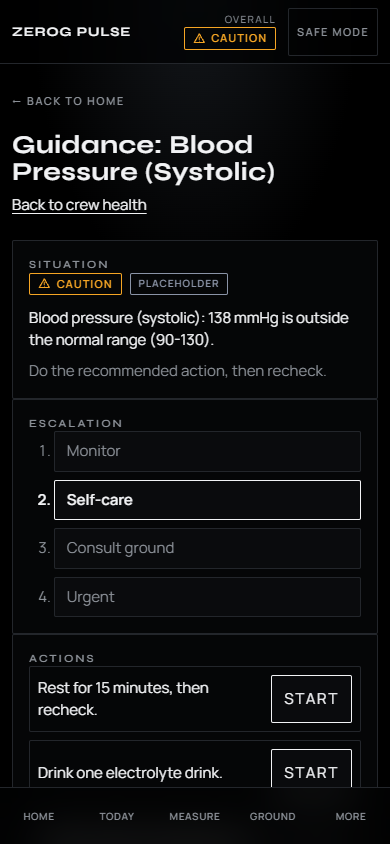
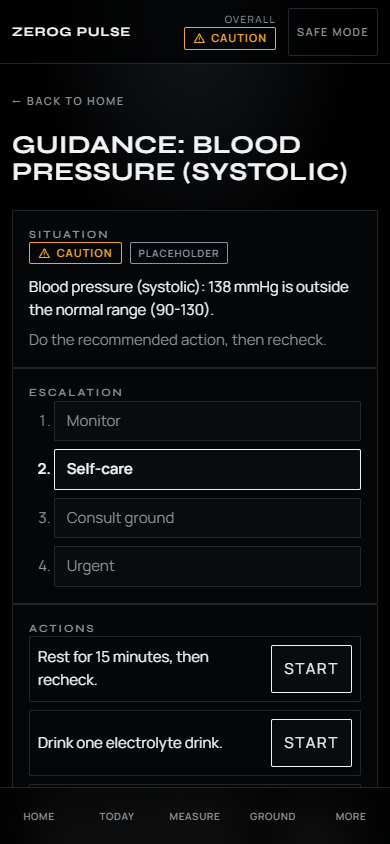
fix(web): polish sub-pages and log blood pressure as one reading
One back link per page, uppercase sub-page titles (an unscoped region rule was capitalising them all), plain indicator titles on region detail, named ends on each check-in scale (stress 5 = calm, per the contract), and Measure logs systolic and diastolic together so the diastolic no longer goes stale. Measure stacks to one column on phones.

Changed region(s): [[0.0308, 0.154, 0.9538, 0.9242], [0.0923, 0.6469, 0.1231, 0.6777]]

diff --git a/apps/web/src/faces/crew/measure/Measure.tsx b/apps/web/src/faces/crew/measure/Measure.tsx
@@ -51,12 +51,20 @@ function Picker({ model }: { model: Model }) {
   );
 }
 
+// Systolic and diastolic come off the cuff together; the contract gives them one prompt.
+const PAIRED: Record<string, string> = { bp_systolic: "bp_diastolic", bp_diastolic: "bp_systolic" };
+
 const KEYS = ["7", "8", "9", "4", "5", "6", "1", "2", "3", "-", "0", "."];
 
 function Guide({ model, store, indicator }: { model: Model; store: CrewStore; indicator: Model["indicators"][number] }) {
   const units = [{ unit: indicator.unit, factor: 1, offset: 0 }, ...indicator.alt_units];
   const [unitIdx, setUnitIdx] = useState(0);
   const [text, setText] = useState("");
+  const partner = model.indicators.find(({ id }) => id === PAIRED[indicator.id]);
+  const [text2, setText2] = useState("");
+  const [active, setActive] = useState<1 | 2>(1);
+  const typed = active === 1 ? text : text2;
+  const setTyped = active === 1 ? setText : setText2;
   const [device, setDevice] = useState("manual entry");
   const [confidence, setConfidence] = useState<Confidence>("high");
   const [error, setError] = useState("");
@@ -67,25 +75,29 @@ function Guide({ model, store, indicator }: { model: Model; store: CrewStore; in
     e.preventDefault();
     const shown = text.trim() === "" ? NaN : Number(text);
     const value = (shown - u.offset) / u.factor;
-    if (!Number.isFinite(value)) { setError("Enter a number."); return; }
-    store.append({
+    const value2 = text2.trim() === "" ? NaN : Number(text2);
+    if (!Number.isFinite(value) || (partner && !Number.isFinite(value2))) {
+      setError(partner ? "Enter both numbers." : "Enter a number."); return;
+    }
+    const log = (indicator_id: string, v: number) => store.append({
       id: crypto.randomUUID(), crew_id: model.settings.crew_id, met_s: model.nowMet,
       earth_ms: model.earthMs, environment: model.settings.environment, author: model.settings.crew_id,
-      kind: { type: "reading", indicator_id: indicator.id, value, device: device.trim() || "manual entry", confidence },
+      kind: { type: "reading", indicator_id, value: v, device: device.trim() || "manual entry", confidence },
     });
+    log(indicator.id, value);
+    if (partner) log(partner.id, value2);
     setError("");
     setDone(true);
   }
 
   if (done) {
-    return <Result model={model} indicatorId={indicator.id} name={indicator.name} onAgain={() => { setText(""); setDone(false); }} />;
+    return <Result model={model} indicatorId={indicator.id} name={indicator.name} onAgain={() => { setText(""); setText2(""); setActive(1); setDone(false); }} />;
   }
 
   return (
     <>
       <div className="page-heading">
         <h1>{indicator.name}</h1>
-        <a href="#/crew/measure">All measurements</a>
       </div>
       <div className="measure-grid">
         <Card>
@@ -97,7 +109,7 @@ function Guide({ model, store, indicator }: { model: Model; store: CrewStore; in
         </Card>
         <Card>
           <form onSubmit={submit} noValidate>
-            <h2><label htmlFor="measure-value">Value</label></h2>
+            <h2><label htmlFor="measure-value">{partner ? indicator.name : "Value"}</label></h2>
             {units.length > 1 && (
               <div className="unit-toggle" role="group" aria-label="Unit">
                 {units.map((x, i) => (
@@ -109,16 +121,28 @@ function Guide({ model, store, indicator }: { model: Model; store: CrewStore; in
             <div className="measure-display">
               <input id="measure-value" inputMode="decimal" autoComplete="off" value={text}
                 aria-describedby={error ? "measure-error" : undefined} aria-invalid={error ? true : undefined}
+                onFocus={() => setActive(1)} data-active={partner && active === 1 ? "" : undefined}
                 onChange={(e) => { setText(e.target.value); setError(""); }} />
               <span>{u.unit}</span>
             </div>
+            {partner && (
+              <>
+                <h2><label htmlFor="measure-value-2">{partner.name}</label></h2>
+                <div className="measure-display">
+                  <input id="measure-value-2" inputMode="decimal" autoComplete="off" value={text2}
+                    onFocus={() => setActive(2)} data-active={active === 2 ? "" : undefined}
+                    onChange={(e) => { setText2(e.target.value); setError(""); }} />
+                  <span>{partner.unit}</span>
+                </div>
+              </>
+            )}
             {error && <p id="measure-error" className="measure-error" role="alert">{error}</p>}
             <div className="keypad">
               {KEYS.map((k) => (
-                <button key={k} type="button" onClick={() => { setText(text + k); setError(""); }}>{k}</button>
+                <button key={k} type="button" onClick={() => { setTyped(typed + k); setError(""); }}>{k}</button>
               ))}
-              <button type="button" className="keypad-wide" onClick={() => setText(text.slice(0, -1))}>Delete</button>
-              <button type="button" className="keypad-wide" onClick={() => setText("")}>Clear</button>
+              <button type="button" className="keypad-wide" onClick={() => setTyped(typed.slice(0, -1))}>Delete</button>
+              <button type="button" className="keypad-wide" onClick={() => setTyped("")}>Clear</button>
             </div>
             <div className="measure-meta">
               <label>Device
@@ -147,7 +171,6 @@ function Result({ model, indicatorId, name, onAgain }: { model: Model; indicator
     <>
       <div className="page-heading">
         <h1>{name}</h1>
-        <a href="#/crew/measure">All measurements</a>
       </div>
       <Card>
         <h2>Result</h2>

diff --git a/apps/web/src/faces/crew/checkin/CheckIn.tsx b/apps/web/src/faces/crew/checkin/CheckIn.tsx
@@ -5,10 +5,11 @@ import { Card } from "../../../ui/Card";
 import "./checkin.css";
 
 const FIELDS = [
-  ["mood", "Mood"],
-  ["stress", "Stress"],
-  ["energy", "Energy"],
-  ["sleep_quality", "Sleep quality"],
+  // Contract: every scale runs 1 (bad) to 5 (good), so for stress 5 means calm.
+  ["mood", "Mood", "1 low", "5 good"],
+  ["stress", "Stress", "1 very stressed", "5 calm"],
+  ["energy", "Energy", "1 drained", "5 full of energy"],
+  ["sleep_quality", "Sleep quality", "1 poor", "5 good"],
 ] as const;
 type Field = (typeof FIELDS)[number][0];
 
@@ -44,9 +45,9 @@ export function CheckIn({ store }: { store: CrewStore }) {
 
   return (
     <form onSubmit={submit}>
-      <div className="page-heading"><h1>Check-in</h1><a href="#/crew/today">Back to Today</a></div>
+      <div className="page-heading"><h1>Check-in</h1></div>
       <Card className="checkin-card">
-        {FIELDS.map(([key, label]) => (
+        {FIELDS.map(([key, label, low, high]) => (
           <fieldset key={key} className="scale" role="radiogroup">
             <legend>{label}</legend>
             <div className="scale-options">
@@ -58,7 +59,7 @@ export function CheckIn({ store }: { store: CrewStore }) {
                 </label>
               ))}
             </div>
-            <div className="scale-ends"><span>1 bad</span><span>5 good</span></div>
+            <div className="scale-ends"><span>{low}</span><span>{high}</span></div>
           </fieldset>
         ))}
         <label className="note">

diff --git a/apps/web/src/faces/crew/region/RegionDetail.tsx b/apps/web/src/faces/crew/region/RegionDetail.tsx
@@ -16,7 +16,7 @@ function Row({ ind, st, flagged }: { ind: Indicator; st: IndicatorStatus | undef
   return (
     <Card className="region-row">
       <div className="region-row-head">
-        <h2><a href={`#/crew/measure/${ind.id}`}>{ind.name}</a></h2>
+        <h2>{ind.name}</h2>
         <StatusChip status={st?.status ?? "unknown"} />
       </div>
       <p className="region-value">
@@ -68,7 +68,6 @@ export function RegionDetail({ region, assessment, indicators }: { region: strin
         <h1>{region}</h1>
         <StatusChip status={rs?.status ?? "unknown"} />
       </div>
-      <p><a href="#/crew/body">Back to crew health</a></p>
       {list.length === 0 ? <p className="next-step">No indicators are tracked for this region.</p> : (
         <div className="region-list">
           {list.map((ind) => <Row key={ind.id} ind={ind} st={assessment.indicators.find((s) => s.indicator_id === ind.id)} flagged={assessment.flags.some((f) => f.indicator_id === ind.id)} />)}

diff --git a/apps/web/src/faces/crew/region/region.css b/apps/web/src/faces/crew/region/region.css
@@ -1,7 +1,6 @@
-.page-heading h1 { text-transform: capitalize; }
 .region-list { display: grid; gap: var(--space-4); }
 .region-row-head { display: flex; justify-content: space-between; align-items: center; gap: var(--space-3); flex-wrap: wrap; }
-.region-row-head h2 { margin: 0; font-size: 1.1rem; }
+.region-row-head h2 { margin: 0; font: 600 1.05rem var(--font-ui); letter-spacing: normal; text-transform: none; color: var(--text); }
 .region-value { font-family: var(--font-mono); }
 .region-facts { display: flex; flex-wrap: wrap; gap: var(--space-2) var(--space-6); margin: var(--space-3) 0; }
 .region-facts dt { color: var(--text-muted); font-size: .8rem; }

diff --git a/apps/web/src/faces/crew/comms/SendReport.tsx b/apps/web/src/faces/crew/comms/SendReport.tsx
@@ -44,7 +44,6 @@ export function SendReport({ model, store, indicatorId }: { model: Model; store:
     <>
       <div className="page-heading">
         <h1>Report to ground</h1>
-        <a href="#/crew/comms">Back to comms</a>
       </div>
       <Card className="comms-card">
         <h2>SBAR draft{indicator ? <> for {indicator.name}</> : null}</h2>

diff --git a/apps/web/src/faces/crew/measure/measure.css b/apps/web/src/faces/crew/measure/measure.css
@@ -42,3 +42,5 @@
   .measure-row { grid-template-columns: 1fr auto; }
   .measure-last { grid-column: 1; }
 }
+.measure-display input[data-active] { border-color: var(--text); } /* the field the keypad types into */
+@media (max-width: 720px) { .measure-grid, .measure-meta { grid-template-columns: minmax(0, 1fr); } }

diff --git a/apps/web/src/faces/crew/guidance/Guidance.tsx b/apps/web/src/faces/crew/guidance/Guidance.tsx
@@ -31,7 +31,6 @@ export function Guidance({ model, store, indicatorId }: { model: Model; store: C
     <div className="guidance">
       <div className="page-heading">
         <h1>Guidance: {name}</h1>
-        <a href="#/crew/body">Back to crew health</a>
       </div>
       {!flag ? (
         <Card>
